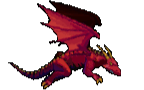
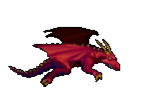
dragon added

diff --git a/game.py b/game.py
@@ -1,4 +1,4 @@
-from obj import Obj, Tower, Coin
+from obj import Obj, Tower, Coin, Dragon
 import pygame
 import random
 
@@ -16,6 +16,8 @@ class Game:
 
         self.ground = Obj("assets/ground.png", 0, 400, 360, 360, self.all_sprites)
         self.ground_2 = Obj("assets/ground.png", 360, 400, 360, 360, self.all_sprites)
+
+        self.dragon = Dragon("assets/dragons/dragon1.png", 10, 230, 36, 22.5, self.all_sprites)
 
         self.ticks = 0
 
@@ -48,7 +50,7 @@ class Game:
 
         if self.ticks >= random.randrange(80, 110):
             self.ticks = 0
-            tower = Tower("assets/tower1.png", 360, random.randrange(300, 420), 82, 440, self.all_sprites)
-            tower_2 = Tower("assets/tower2.png", 360, tower.rect.y - 550, 82, 440, self.all_sprites)
-            coin = Coin("assets/coin/coin0.png", 395, tower.rect.y - 70, 17*2.6, 16*2.6, self.all_sprites)
+            tower = Tower("assets/tower1.png", 360, random.randrange(300, 450), 82, 440, self.all_sprites)
+            tower_2 = Tower("assets/tower2.png", 360, tower.rect.y - 650, 82, 440, self.all_sprites)
+            coin = Coin("assets/coin/coin0.png", 395, tower.rect.y - 110, 17*2.6, 16*2.6, self.all_sprites)
 

diff --git a/obj.py b/obj.py
@@ -49,3 +49,31 @@ class Coin(Obj):
         self.ticks = (self.ticks + 1) % 8
         self.image = pygame.image.load("assets/coin/coin" + str(self.ticks) + ".PNG")
 
+class Dragon(Obj):
+    def __init__(self, img, x, y, width = None, height = None, *groups):
+        super().__init__(img, x, y, width, height, *groups)
+
+        self.ticks = 0
+        self.frame = 0
+
+    def update(self, *args):
+        self.anim()
+        self.move()
+
+    def anim(self):
+        self.ticks += 1
+
+        if self.ticks >= 3:
+            self.ticks = 0
+            self.frame += 1
+
+        if self.frame == 3:
+            self.frame = 0
+
+        self.image = pygame.image.load("assets/dragons/dragon" + str(self.frame) + ".PNG")
+
+    def move(self):
+        key = pygame.key.get_pressed()
+
+        if key[pygame.K_SPACE]:
+            print("VOAR")
